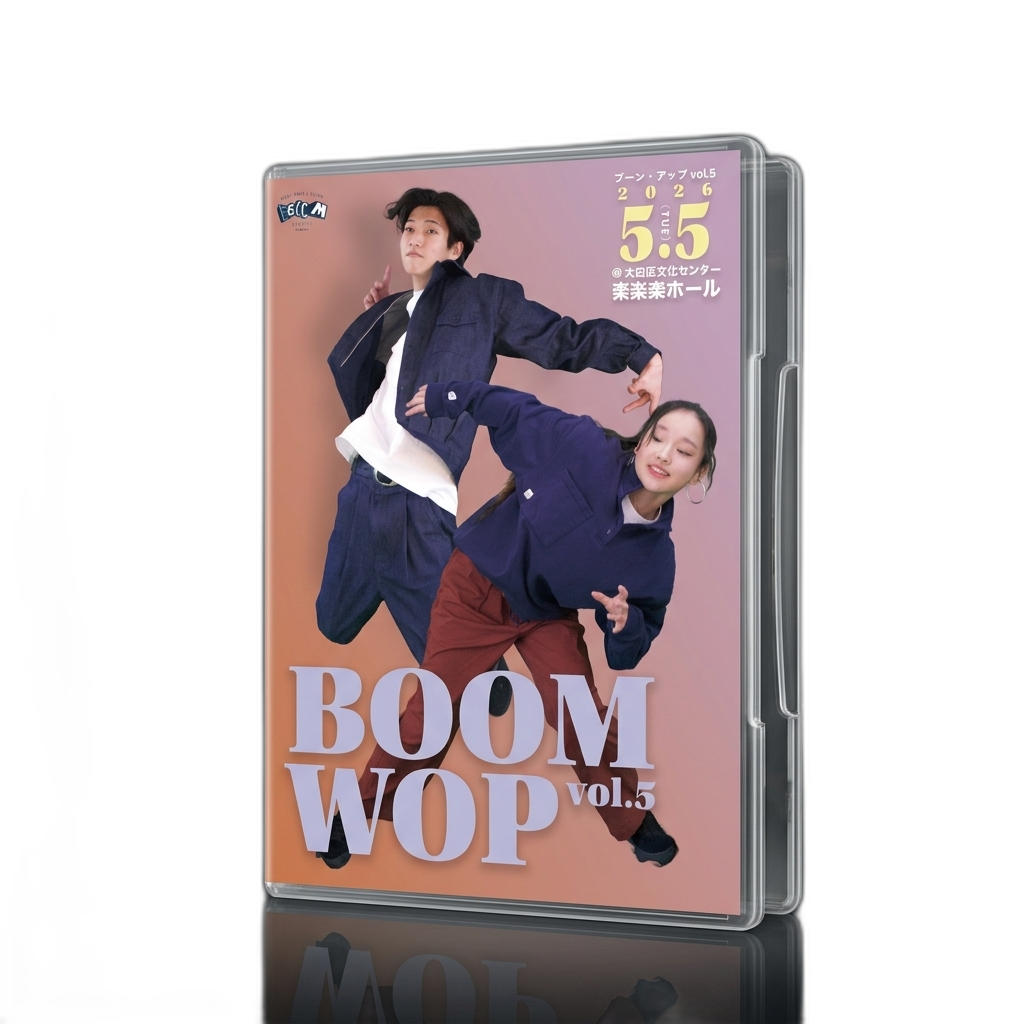
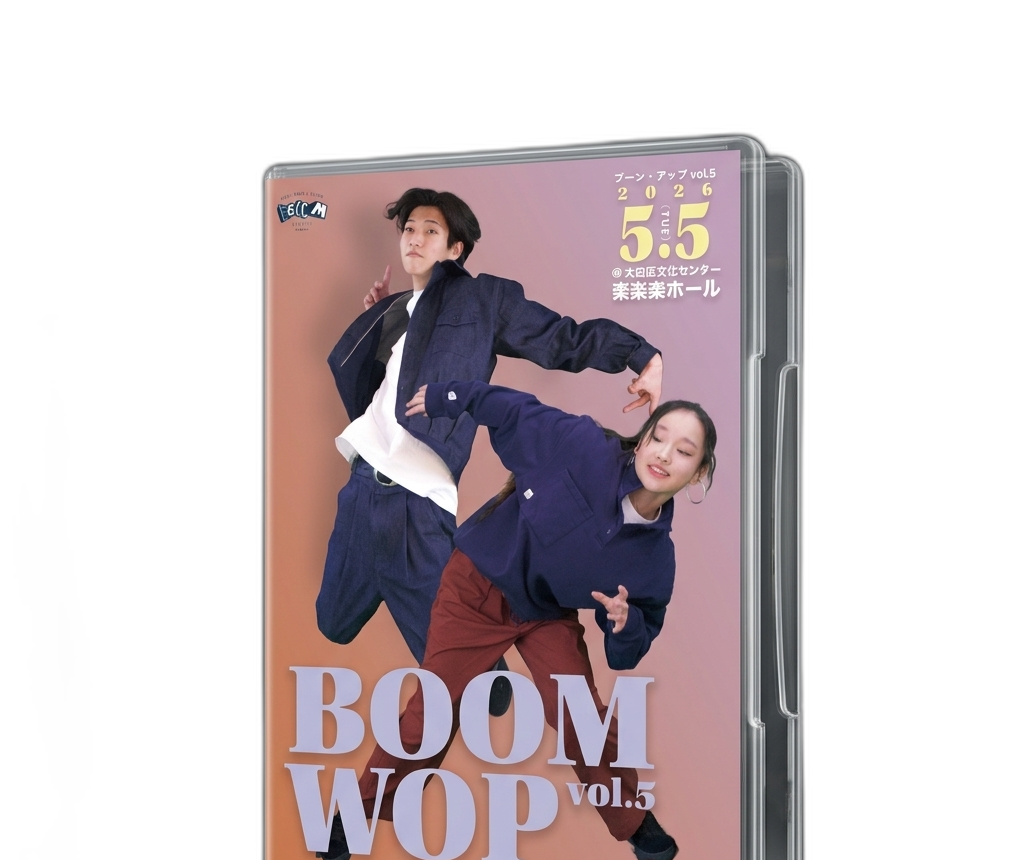
chore: shop section reorder + DVD cutout reflection removed + tote image
- ShopSection: BW5特集ページCTAを商品グリッドの上部に移動
  まとめ買いしたいユーザーが先に気づけるように
- video_data_cutout.png: 床反射部分をクロップで除去
  (DVD下の影が黒く見える問題を解消)
- BASE側にもミニトートのグレー/グリーン画像をAPI経由でアップロード済

Changed region(s): [[0.25, 0.1209, 0.8125, 1.0]]

diff --git a/src/components/ShopSection.tsx b/src/components/ShopSection.tsx
@@ -1501,15 +1501,33 @@ export function BaseShopSection() {
           <div className="text-[10px] tracking-widest text-orange-200/90 font-bold">
             🛍 ONLINE STORE — 継続販売中
           </div>
-          <a
-            href={BW5_CATEGORY_URL}
-            target="_blank"
-            rel="noopener noreferrer"
-            className="ml-auto text-[10px] text-white/70 underline"
-          >
-            特集ページ
-          </a>
         </div>
+
+        {/* まとめ買い用：BW5特集ページCTAを上部に配置 */}
+        <a
+          href={BW5_CATEGORY_URL}
+          target="_blank"
+          rel="noopener noreferrer"
+          className="block mx-3 mb-3 rounded-xl overflow-hidden"
+          style={{
+            background:
+              "linear-gradient(135deg, rgba(255,255,255,0.22), rgba(255,255,255,0.10))",
+            border: "1px solid rgba(255,255,255,0.30)",
+          }}
+        >
+          <div className="px-3 py-2.5 flex items-center gap-2">
+            <span className="text-lg">📦</span>
+            <div className="flex-1 min-w-0">
+              <div className="text-[12px] font-black text-white">
+                まとめて買うなら BW5 特集ページ
+              </div>
+              <div className="text-[10px] text-white/70 mt-0.5">
+                複数商品を一度にカートへ・送料節約
+              </div>
+            </div>
+            <div className="text-white text-base">→</div>
+          </div>
+        </a>
 
         <div className="grid grid-cols-2 gap-2 px-3 pb-3">
           {products.map((p) => (
@@ -1568,32 +1586,6 @@ export function BaseShopSection() {
             </a>
           ))}
         </div>
-
-        {/* 特集ページへの誘導 — 複数商品をまとめてカートに入れたい人向け */}
-        <a
-          href={BW5_CATEGORY_URL}
-          target="_blank"
-          rel="noopener noreferrer"
-          className="block mx-3 mb-3 rounded-xl overflow-hidden"
-          style={{
-            background:
-              "linear-gradient(135deg, rgba(255,255,255,0.18), rgba(255,255,255,0.08))",
-            border: "1px solid rgba(255,255,255,0.25)",
-          }}
-        >
-          <div className="px-3 py-2.5 flex items-center gap-2">
-            <span className="text-base">📦</span>
-            <div className="flex-1 min-w-0">
-              <div className="text-[11px] font-bold text-white">
-                まとめて買うなら BW5 特集ページ
-              </div>
-              <div className="text-[9px] text-white/65 mt-0.5">
-                複数商品を一度にカートへ・送料節約
-              </div>
-            </div>
-            <div className="text-white/70 text-sm">→</div>
-          </div>
-        </a>
       </div>
     </div>
   );
